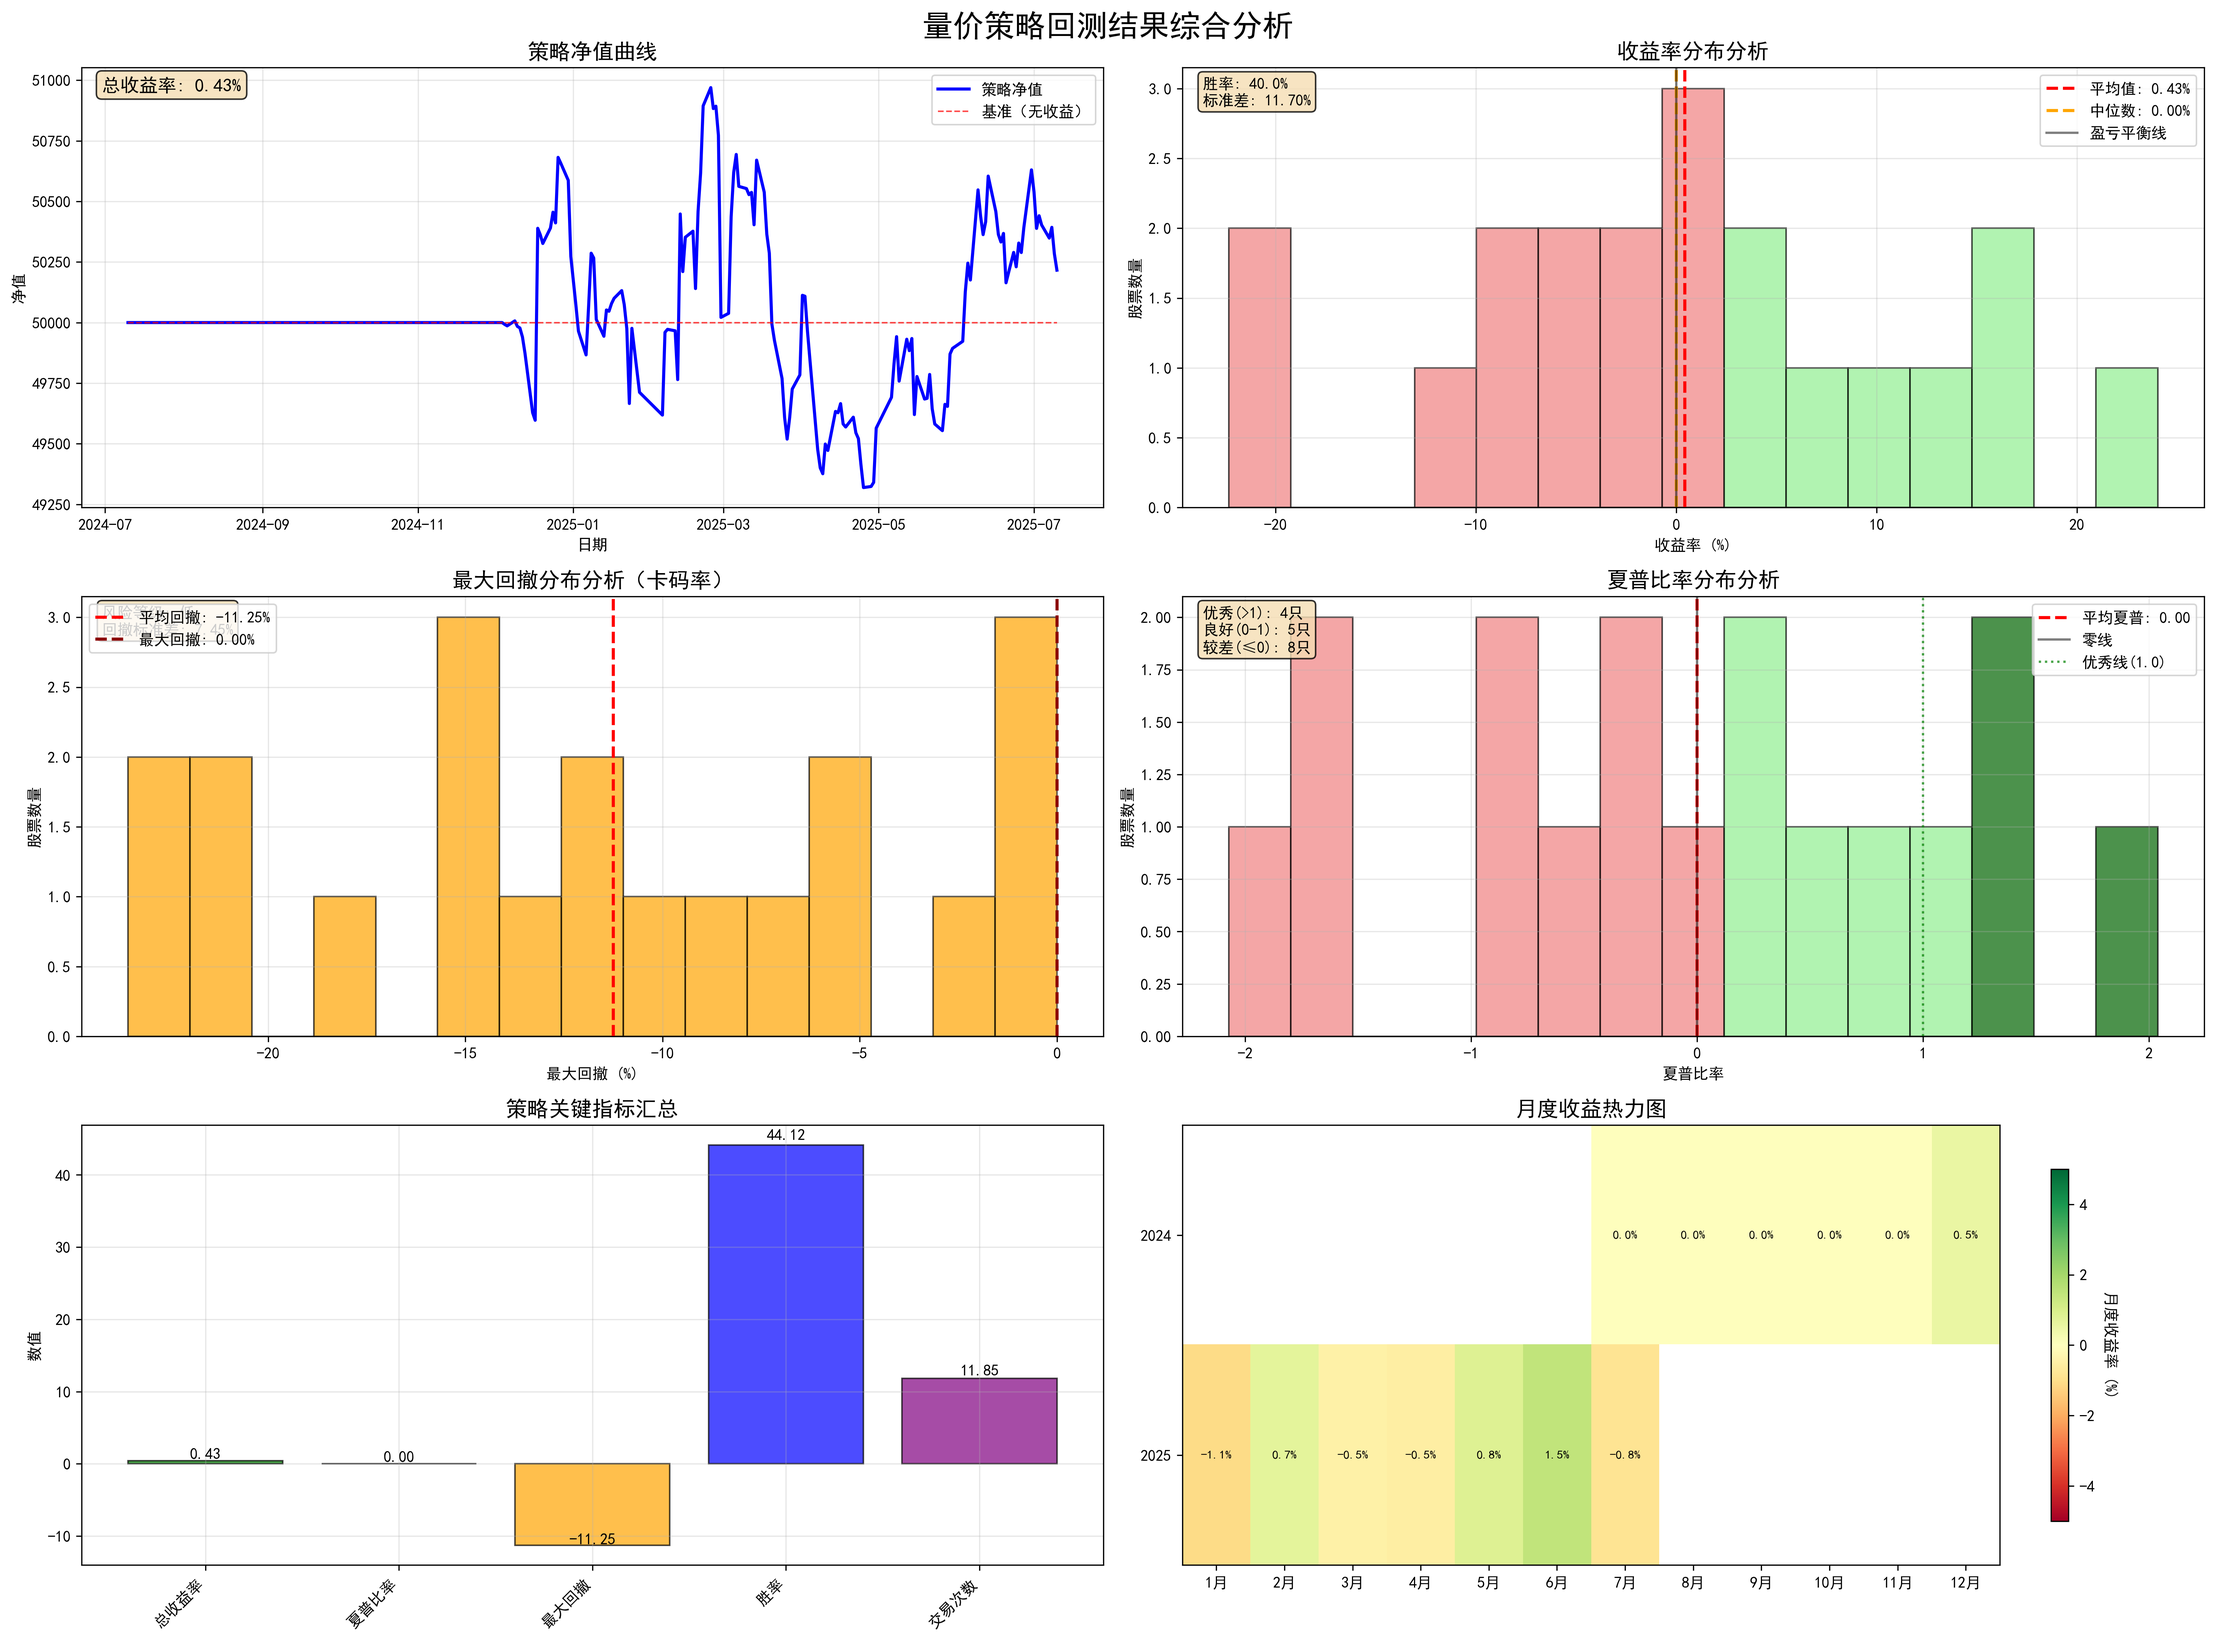
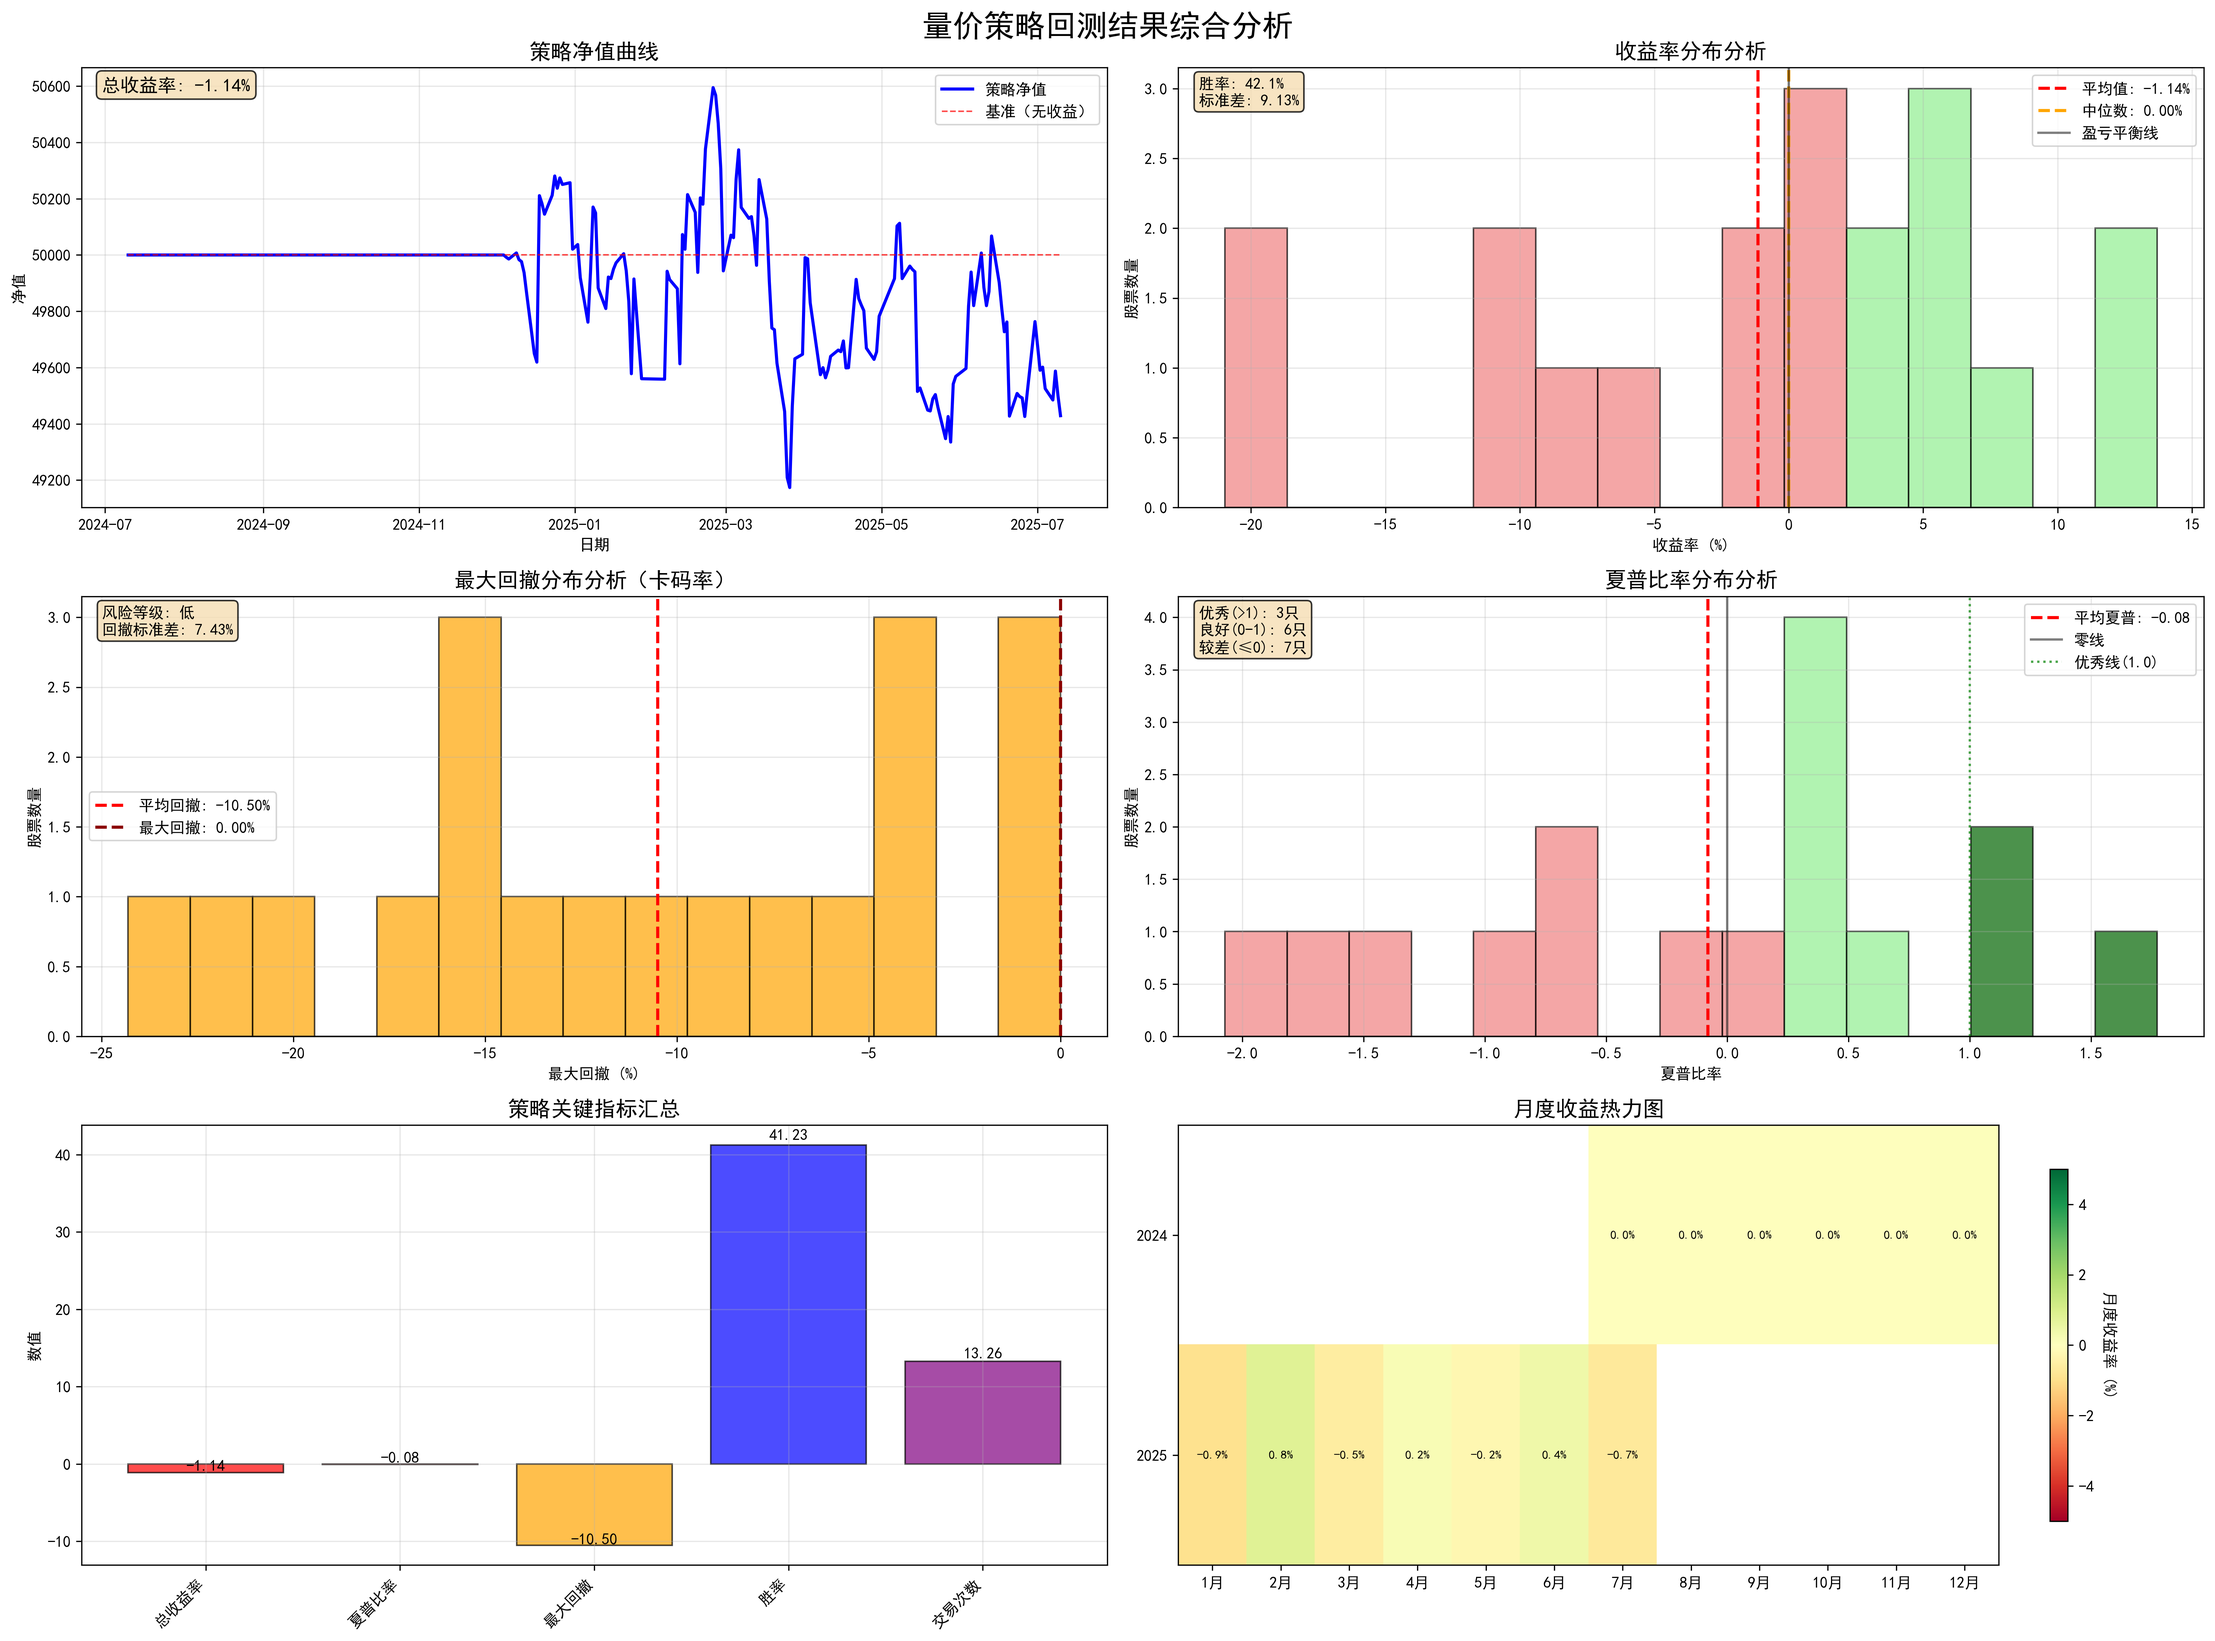
chates

diff --git a/main.py b/main.py
@@ -26,9 +26,9 @@ class VolumePrice_Strategy:
     """量价策略类"""
 
     def __init__(self, initial_capital=1000000, position_size=0.05,
-                 max_holding_days=3, trail_percent=0.03,
-                 stop_loss_pct=0.02, profit_take_pct=0.05):
-        """初始化策略
+                 max_holding_days=3, trail_percent=0.02,
+                 stop_loss_pct=0.03, profit_take_pct=0.03):
+        """初始化策略 
 
         :param initial_capital: 初始资金，默认100万
         :param position_size: 单只股票仓位
@@ -168,20 +168,21 @@ class VolumePrice_Strategy:
     
     def check_trend_condition(self, data):
         """
-        检查趋势条件：简化的趋势判断
+        检查趋势条件：加强的趋势判断
         :param data: 股票数据
         :return: 是否满足趋势条件
         """
         latest = data.iloc[-1]
         
-        # 简化趋势条件：只要5日均线 > 20日均线即可
         ma5 = latest['ma5']
+        ma10 = latest['ma10']
         ma20 = latest['ma20']
+        ma60 = latest['ma60']
         
-        if pd.isna(ma5) or pd.isna(ma20):
+        if pd.isna(ma5) or pd.isna(ma10) or pd.isna(ma20) or pd.isna(ma60):
             return False
             
-        return ma5 > ma20
+        return ma5 > ma10 > ma20 > ma60
     
     def check_buy_condition(self, data):
         """
@@ -191,7 +192,7 @@ class VolumePrice_Strategy:
         """
         latest = data.iloc[-1]
         
-        # 简化买入条件：股价接近10日均线（偏离不超过±5%）
+        # 买入条件：股价接近10日均线（偏离不超过±5%）且为阴线
         close_price = latest['close']
         ma10 = latest['ma10']
         
@@ -201,7 +202,9 @@ class VolumePrice_Strategy:
         deviation = abs(close_price - ma10) / ma10
         near_ma10 = deviation <= 0.05  # 放宽到5%
         
-        return near_ma10  # 移除阴线要求
+        is_yin = close_price < latest['open']
+        
+        return near_ma10 and is_yin
     
     def check_sell_condition(self, data, buy_date, current_date, buy_price,
                             highest_price):
